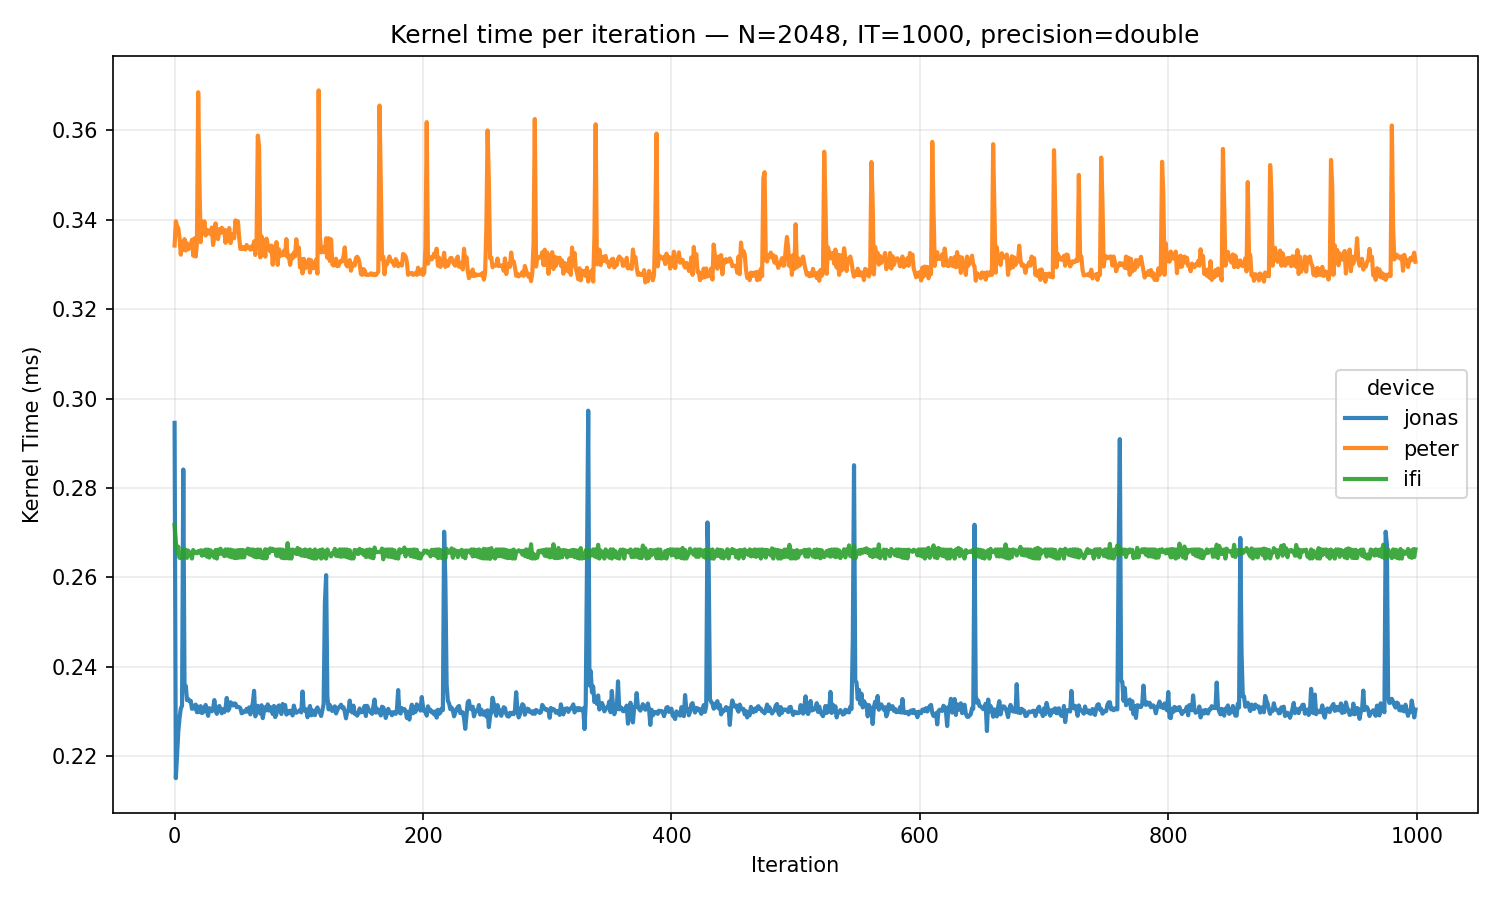
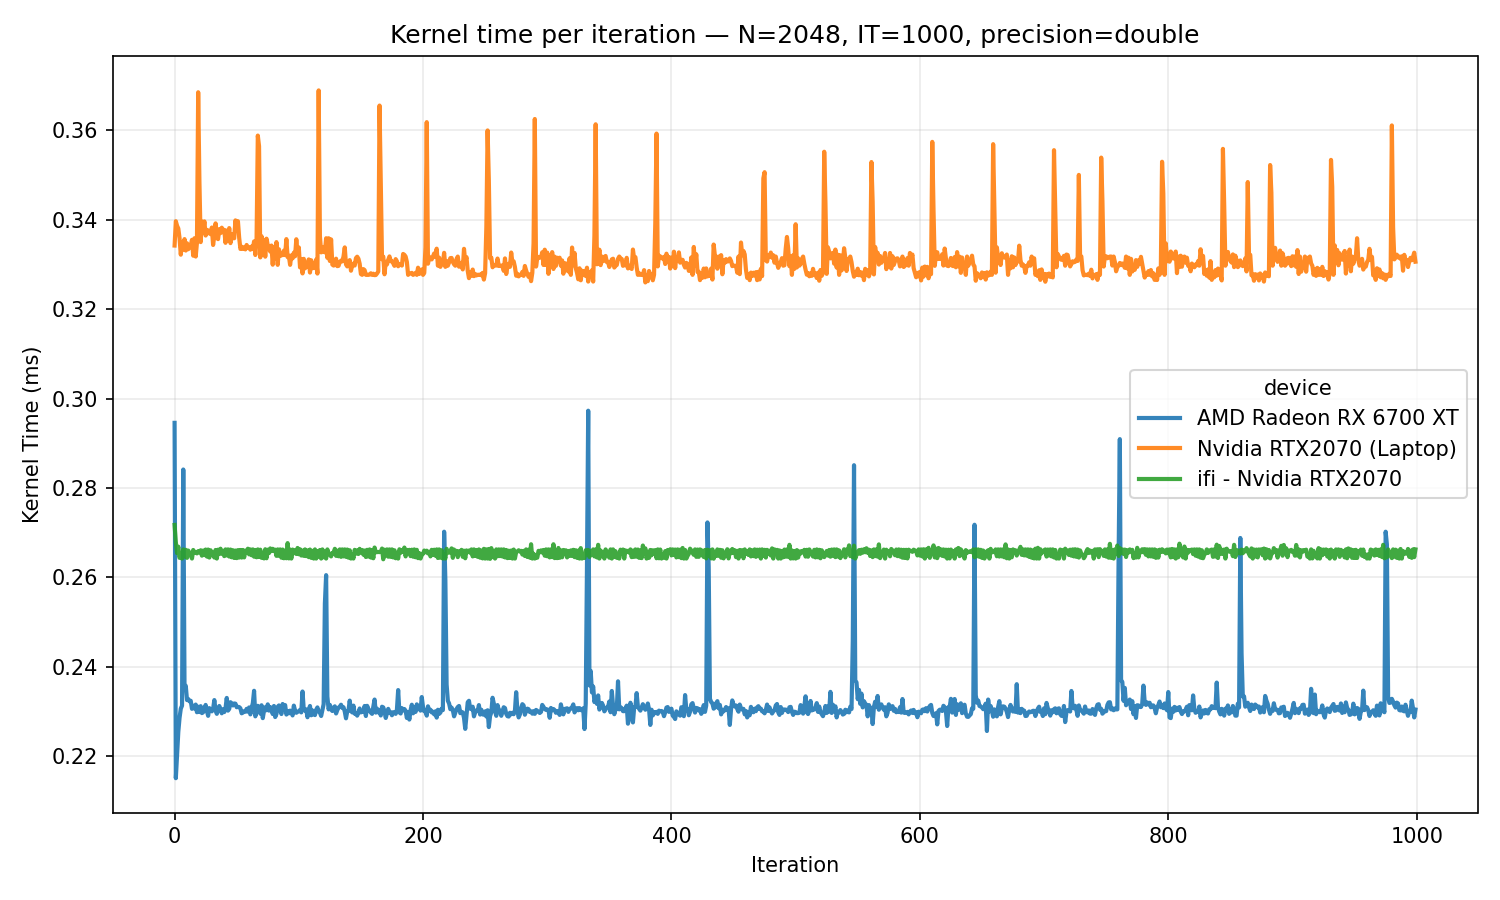
improved legends of plots

Changed region(s): [[0.736, 0.4044, 0.9813, 0.56]]

diff --git a/exercise_3/plot_results.py b/exercise_3/plot_results.py
@@ -15,6 +15,15 @@ os.makedirs(OUT_DIR, exist_ok=True)
 TIME_COLS = ["total_read", "total_write", 
             "write_f", "write_tmp", "write_u", "average_queue"]
 
+# device info
+DEVICE_INFO = {
+    "paul":  "Intel Iris Xe Graphics",
+    "jonas": "AMD Radeon RX 6700 XT",
+    "peter": "Nvidia RTX2070 (Laptop)",
+    "ifi":   "ifi - Nvidia RTX2070"
+}
+
+
 # Load CSVs and add device column from filename
 dfs = []
 for f in FILES:
@@ -45,7 +54,7 @@ plt.figure(figsize=(10,6))
 x = np.arange(len(TIME_COLS))
 for dev in devices:
     times = sel[sel["device"] == dev][TIME_COLS].values[0]
-    plt.plot(x, times, marker="o", label=dev)
+    plt.plot(x, times, marker="o", label=DEVICE_INFO.get(dev, dev))
 plt.xticks(x, TIME_COLS, rotation=45)
 plt.xlabel("measurement")
 plt.ylabel("time (ms)")
@@ -62,7 +71,7 @@ plt.figure(figsize=(10,6))
 x = np.arange(len(TIME_COLS))
 for dev in [d for d in devices if d != "paul"]:  # exclude paul for double
     times = sel[sel["device"] == dev][TIME_COLS].values[0]
-    plt.plot(x, times, marker="o", label=dev)
+    plt.plot(x, times, marker="o", label=DEVICE_INFO.get(dev, dev))
 plt.xticks(x, TIME_COLS, rotation=45)
 plt.xlabel("measurement")
 plt.ylabel("time (ms)")
@@ -146,7 +155,7 @@ for N in Ns:
         dfk = pd.read_csv(filepath)
         ax.plot(
             dfk["iteration"], dfk["kernel_time_ms"],
-            label=dev,
+            label=DEVICE_INFO.get(dev, dev),
             color=colors[i],
             linewidth=2.0,
             alpha=0.9
@@ -180,7 +189,7 @@ for N in Ns:
         dfk = pd.read_csv(filepath)
         ax.plot(
             dfk["iteration"], dfk["kernel_time_ms"],
-            label=dev,
+            label=DEVICE_INFO.get(dev, dev),
             color=colors[i],
             linewidth=2.0,
             alpha=0.9
@@ -214,7 +223,7 @@ for N in Ns:
         dfk = pd.read_csv(filepath)
         ax.plot(
             dfk["iteration"], dfk["kernel_time_ms"],
-            label=dev,
+            label=DEVICE_INFO.get(dev, dev),
             color=colors[i],
             linewidth=2.0,
             alpha=0.9
@@ -248,7 +257,7 @@ for N in Ns:
         dfk = pd.read_csv(filepath)
         ax.plot(
             dfk["iteration"], dfk["queue_time_ms"],
-            label=dev,
+            label=DEVICE_INFO.get(dev, dev),
             color=colors[i],
             linewidth=2.0,
             alpha=0.9
@@ -283,7 +292,7 @@ for N in Ns:
         dfk = pd.read_csv(filepath)
         ax.plot(
             dfk["iteration"], dfk["queue_time_ms"],
-            label=dev,
+            label=DEVICE_INFO.get(dev, dev),
             color=colors[i],
             linewidth=2.0,
             alpha=0.9
